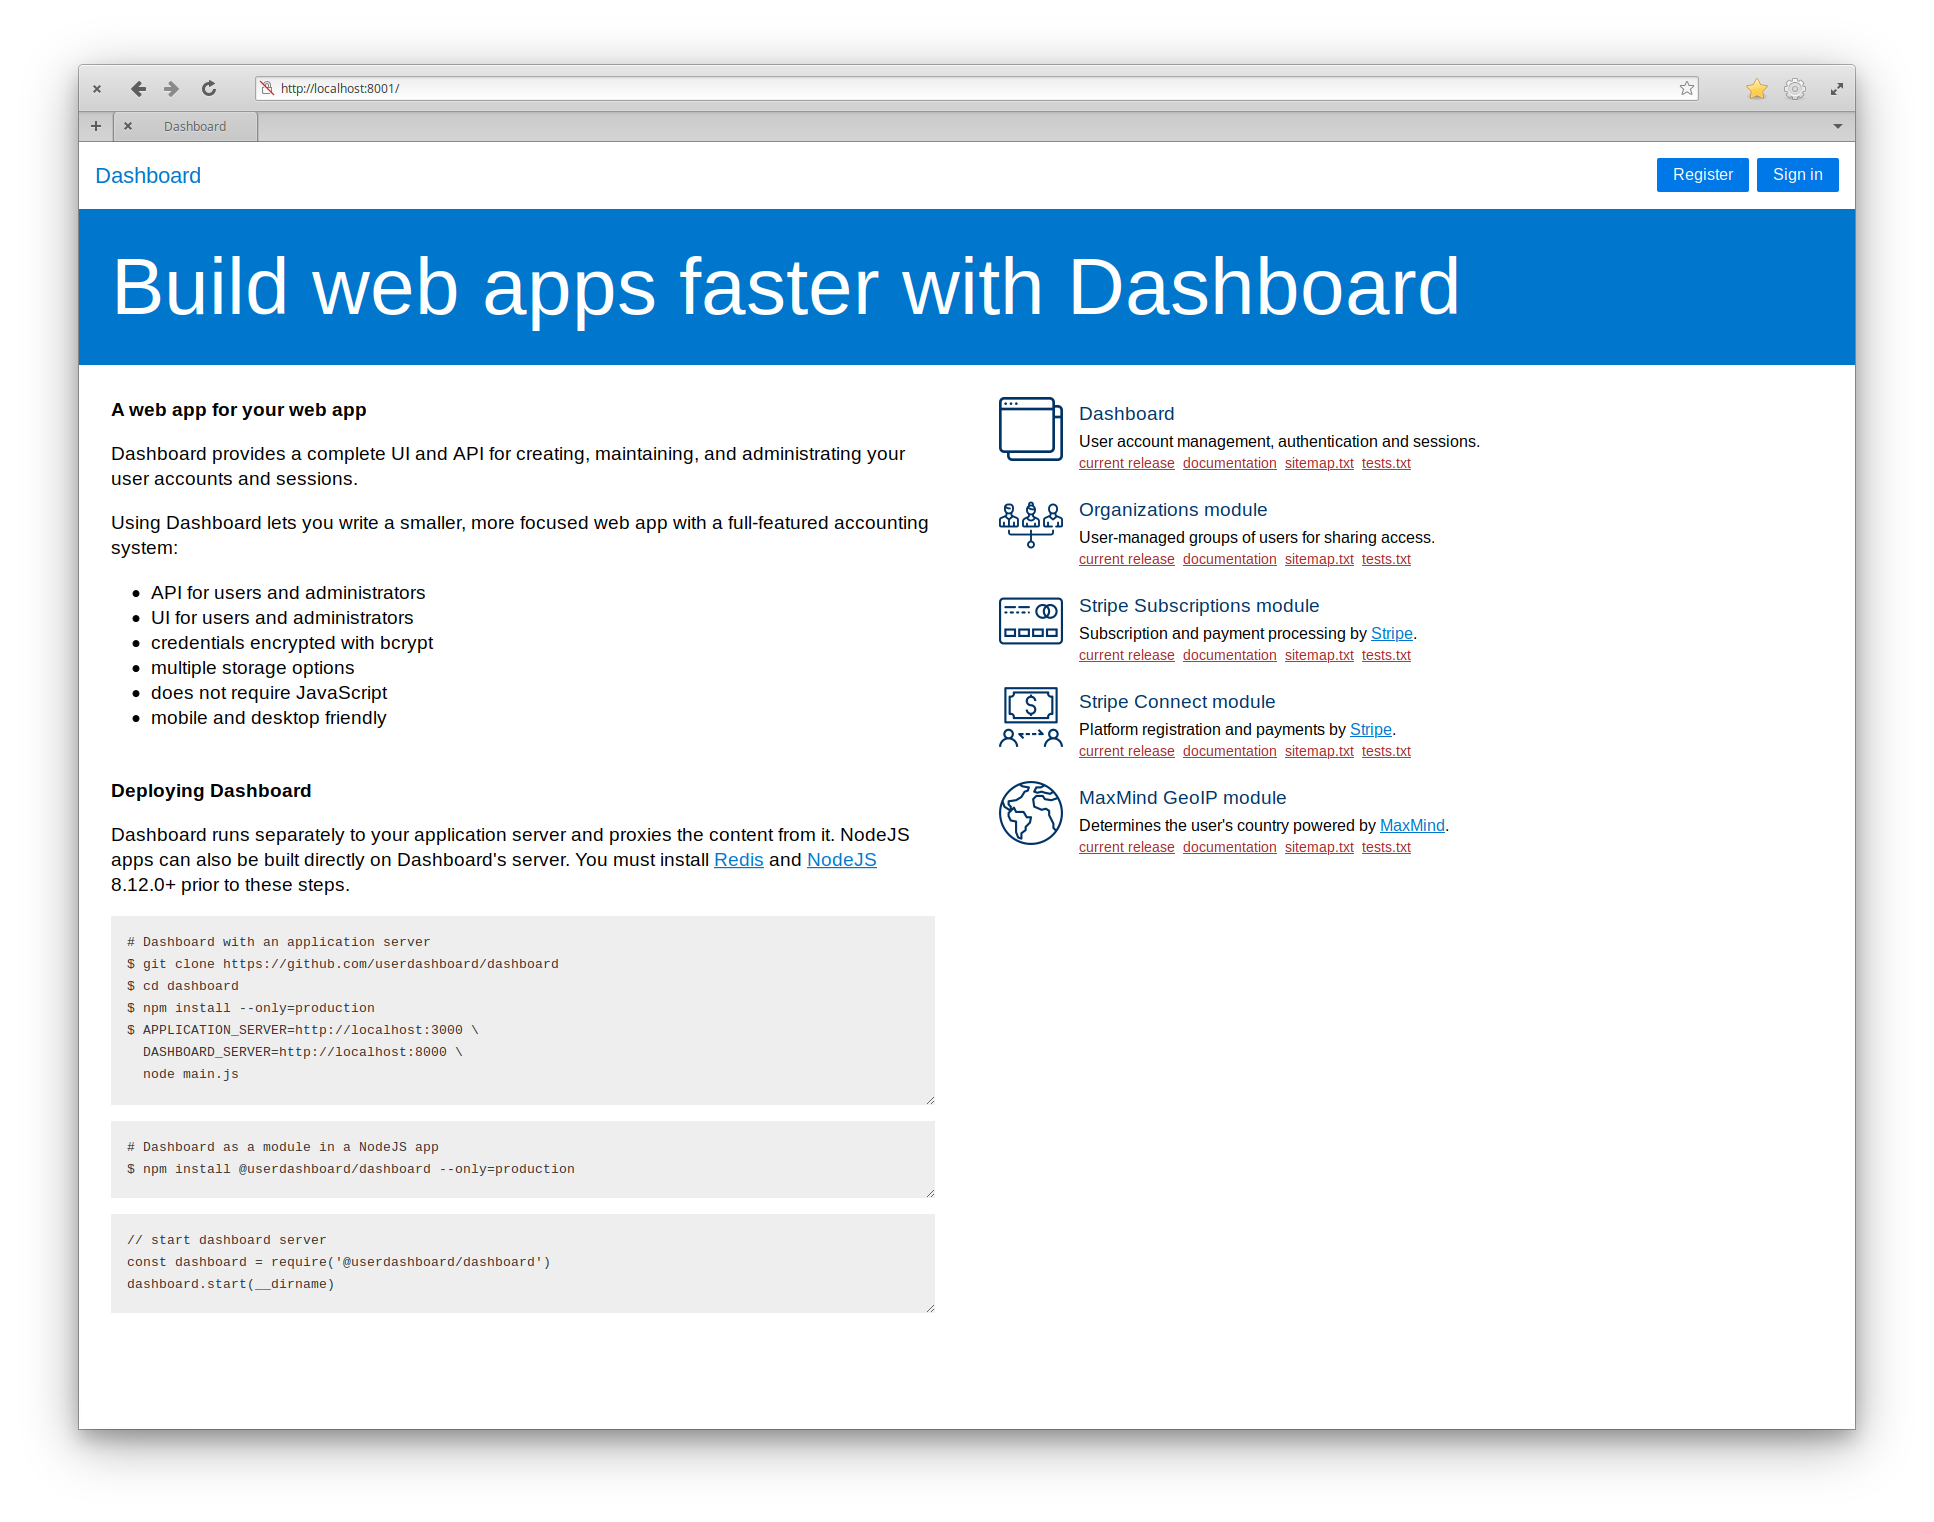
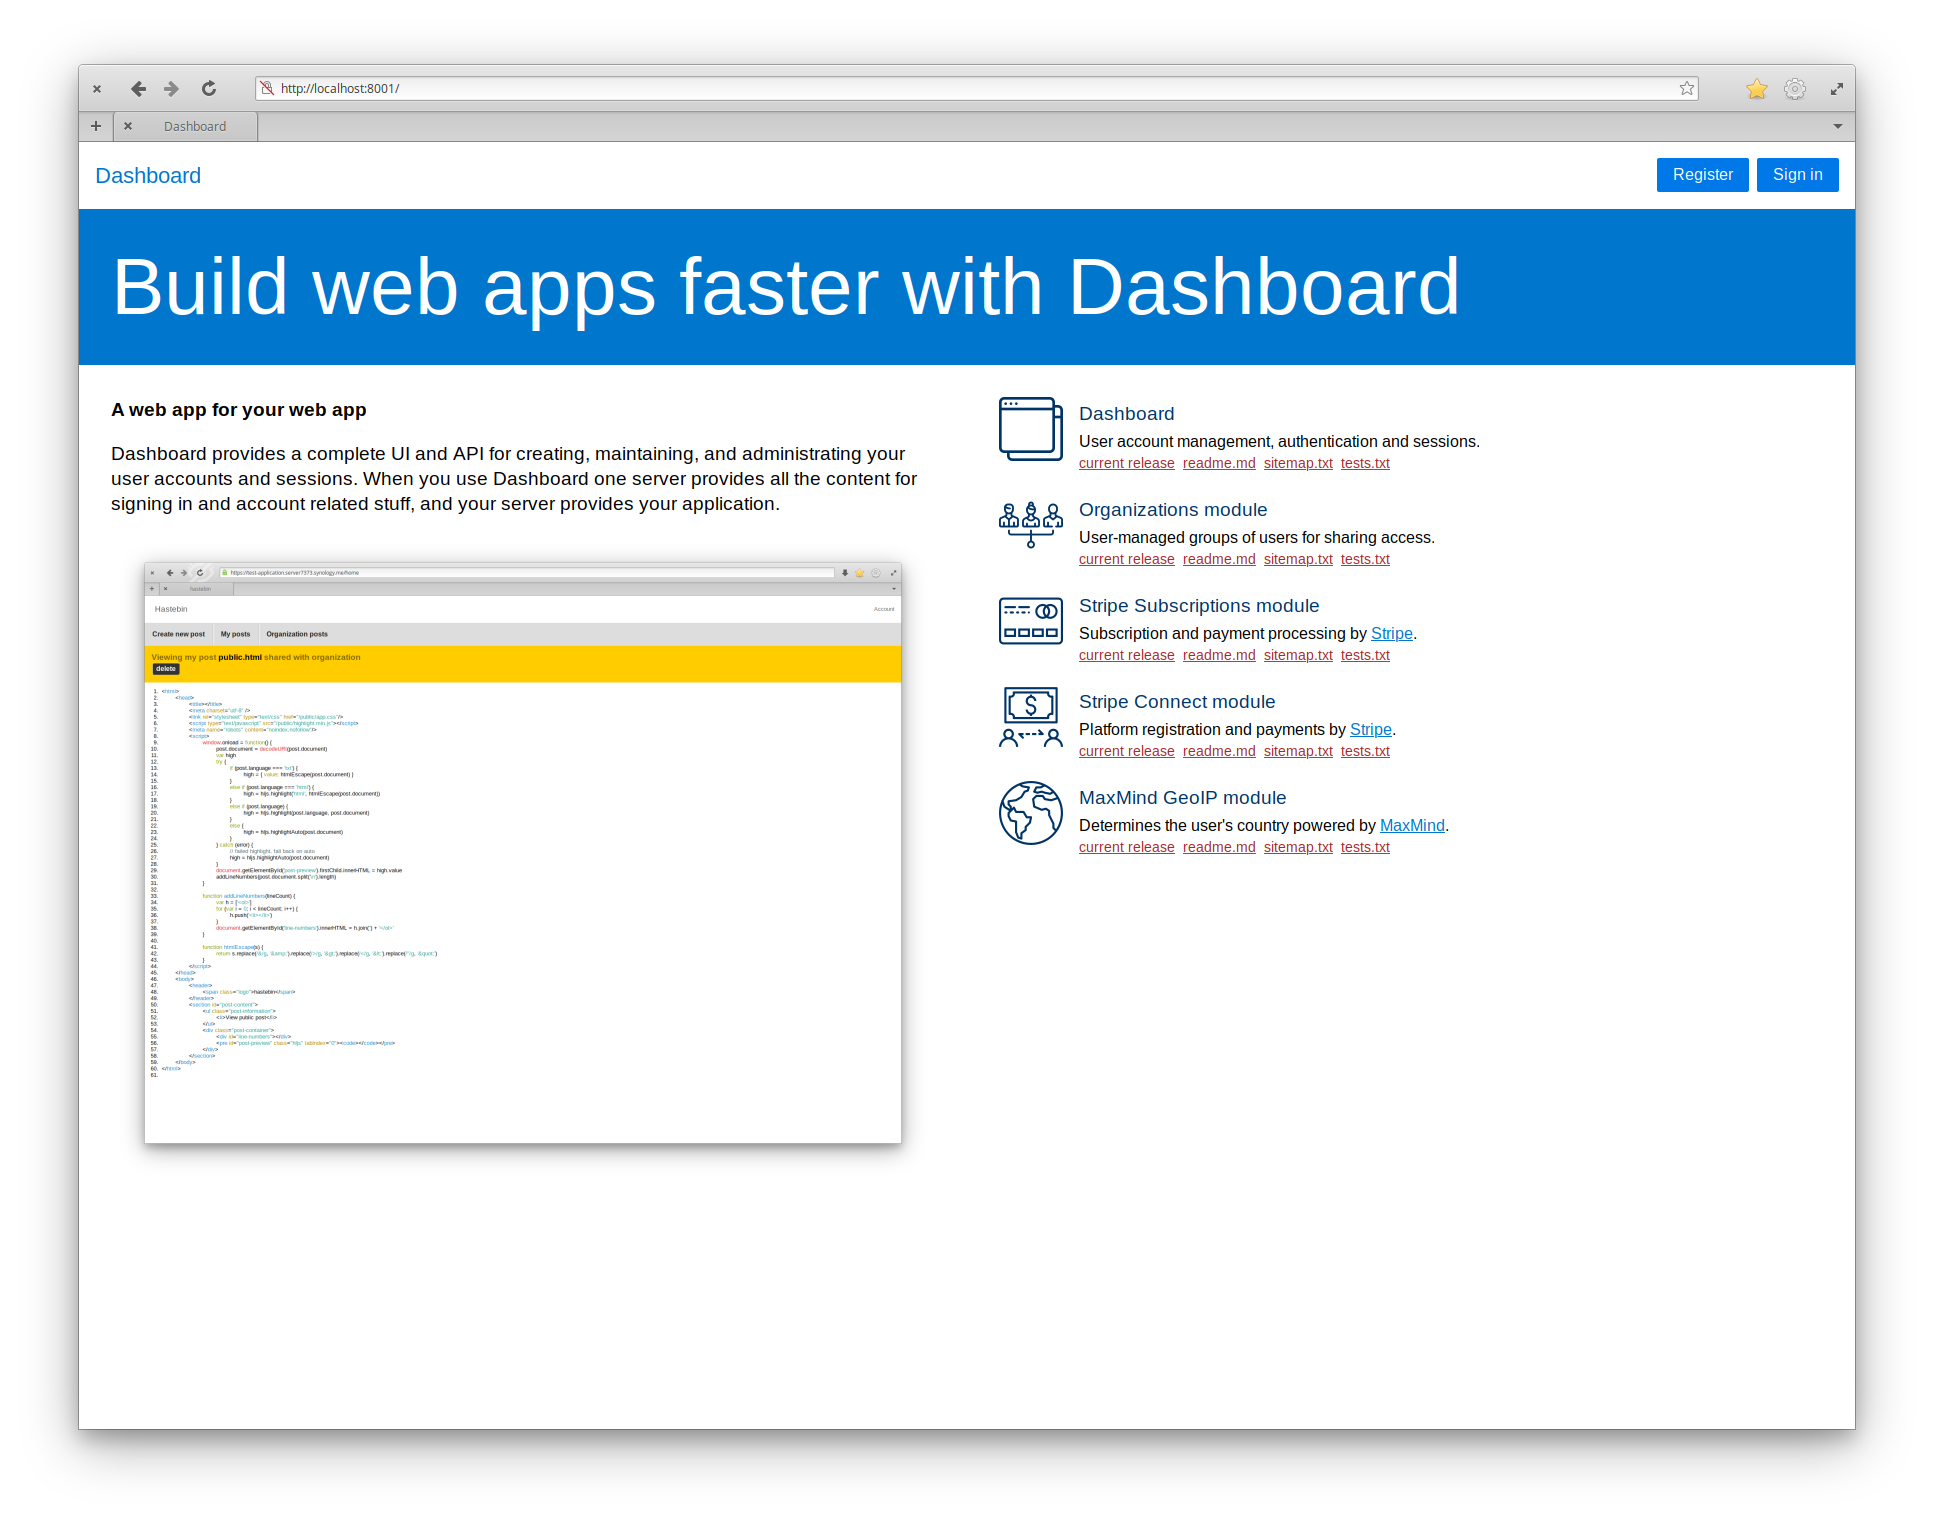
Updated documentation and demo index page

diff --git a/src/www/index.html b/src/www/index.html
@@ -48,30 +48,8 @@
       <div class="pure-u-1-2">
         <div class="information">
           <h3>A web app for your web app</h3>
-          <p>Dashboard provides a complete UI and API for creating, maintaining, and administrating your user accounts and sessions.</p>
-          <p>Using Dashboard lets you write a smaller, more focused web app with a full-featured accounting system:</p>
-          <ul>
-            <li>API for users and administrators</li>
-            <li>UI for users and administrators</li>
-            <li>credentials encrypted with bcrypt</li>
-            <li>multiple storage options</li>
-            <li>does not require JavaScript</li>
-            <li>mobile and desktop friendly</li>
-          </ul>
-          <h3>Deploying Dashboard</h3>
-          <p>Dashboard runs separately to your application server and proxies the content from it.  NodeJS apps can also be built directly on Dashboard's server.  You must install <a href="https://redis.io">Redis</a> and <a href="https://nodejs.org">NodeJS</a> 8.12.0+ prior to these steps.</p>
-          <div class="code application"><textarea># Dashboard with an application server          
-$ git clone https://github.com/userdashboard/dashboard
-$ cd dashboard
-$ npm install --only=production
-$ APPLICATION_SERVER=http://localhost:3000 \
-  DASHBOARD_SERVER=http://localhost:8000 \
-  node main.js</textarea></div>
-          <div class="code module"><textarea># Dashboard as a module in a NodeJS app
-$ npm install @userdashboard/dashboard --only=production</textarea></div>
-          <div class="code main"><textarea>// start dashboard server
-const dashboard = require('@userdashboard/dashboard')
-dashboard.start(__dirname)</textarea></div>
+          <p>Dashboard provides a complete UI and API for creating, maintaining, and administrating your user accounts and sessions. When you use Dashboard one server provides all the content for signing in and account related stuff, and your server provides your application.</p>
+          <img style="max-width: 100%" src="/public/0-example-app.png" />
         </div>
       </div>
       <div class="pure-u-1-2">
@@ -83,7 +61,7 @@ dashboard.start(__dirname)</textarea></div>
                 <h3>Dashboard</h3>
                 <p>User account management, authentication and sessions.</p>
                 <div>
-                  <a href="https://github.com/userdashboard/dashboard">current release</a>
+                  <a href="https://github.com/userdashboard/dashboard">source</a>
                   <a href="https://github.com/userdashboard/dashboard/blob/master/readme.md">readme.md</a>
                   <a href="https://github.com/userdashboard/dashboard/blob/master/sitemap.txt">sitemap.txt</a>
                   <a href="https://github.com/userdashboard/dashboard/blob/master/tests.txt">tests.txt</a>
@@ -96,7 +74,7 @@ dashboard.start(__dirname)</textarea></div>
                 <h3>Organizations module</h3>
                 <p>User-managed groups of users for sharing access.</p>
                 <div>
-                    <a href="https://github.com/userdashboard/organizations">current release</a>
+                    <a href="https://github.com/userdashboard/organizations">source</a>
                     <a href="https://github.com/userdashboard/organizations/blob/master/readme.md">readme.md</a>
                     <a href="https://github.com/userdashboard/organizations/blob/master/sitemap.txt">sitemap.txt</a>
                     <a href="https://github.com/userdashboard/organizations/blob/master/tests.txt">tests.txt</a>
@@ -109,7 +87,7 @@ dashboard.start(__dirname)</textarea></div>
                 <h3>Stripe Subscriptions module</h3>
                 <p>Subscription and payment processing by <a href="https://stripe.com">Stripe</a>.</p>
                 <div>
-                    <a href="https://github.com/userdashboard/stripe-subscriptions">current release</a>
+                    <a href="https://github.com/userdashboard/stripe-subscriptions">source</a>
                     <a href="https://github.com/userdashboard/stripe-subscriptions/blob/master/readme.md">readme.md</a>
                     <a href="https://github.com/userdashboard/stripe-subscriptions/blob/master/sitemap.txt">sitemap.txt</a>
                     <a href="https://github.com/userdashboard/stripe-subscriptions/blob/master/tests.txt">tests.txt</a>
@@ -122,7 +100,7 @@ dashboard.start(__dirname)</textarea></div>
                 <h3>Stripe Connect module</h3>
                 <p>Platform registration and payments by <a href="https://stripe.com">Stripe</a>.</p>
                 <div>
-                    <a href="https://github.com/userdashboard/stripe-connect">current release</a>
+                    <a href="https://github.com/userdashboard/stripe-connect">source</a>
                     <a href="https://github.com/userdashboard/stripe-connect/blob/master/readme.md">readme.md</a>
                     <a href="https://github.com/userdashboard/stripe-connect/blob/master/sitemap.txt">sitemap.txt</a>
                     <a href="https://github.com/userdashboard/stripe-connect/blob/master/tests.txt">tests.txt</a>
@@ -135,8 +113,8 @@ dashboard.start(__dirname)</textarea></div>
                 <h3>MaxMind GeoIP module</h3>
                 <p>Determines the user's country powered by <a href="https://maxmind.com">MaxMind</a>.</p>
                 <div>
-                  <a href="https://github.com/userdashboard/maxmind-geoip">current release</a>
-                  <a href="https://github.com/userdashboard/maxmind-geoip/wiki">documentation</a>
+                  <a href="https://github.com/userdashboard/maxmind-geoip">source</a>
+                  <a href="https://github.com/userdashboard/maxmind/geoip/blob/master/readme.md">readme.md</a>
                   <a href="https://github.com/userdashboard/maxmind-geoip/blob/master/sitemap.txt">sitemap.txt</a>
                   <a href="https://github.com/userdashboard/maxmind-geoip/blob/master/tests.txt">tests.txt</a>
                 </div>
